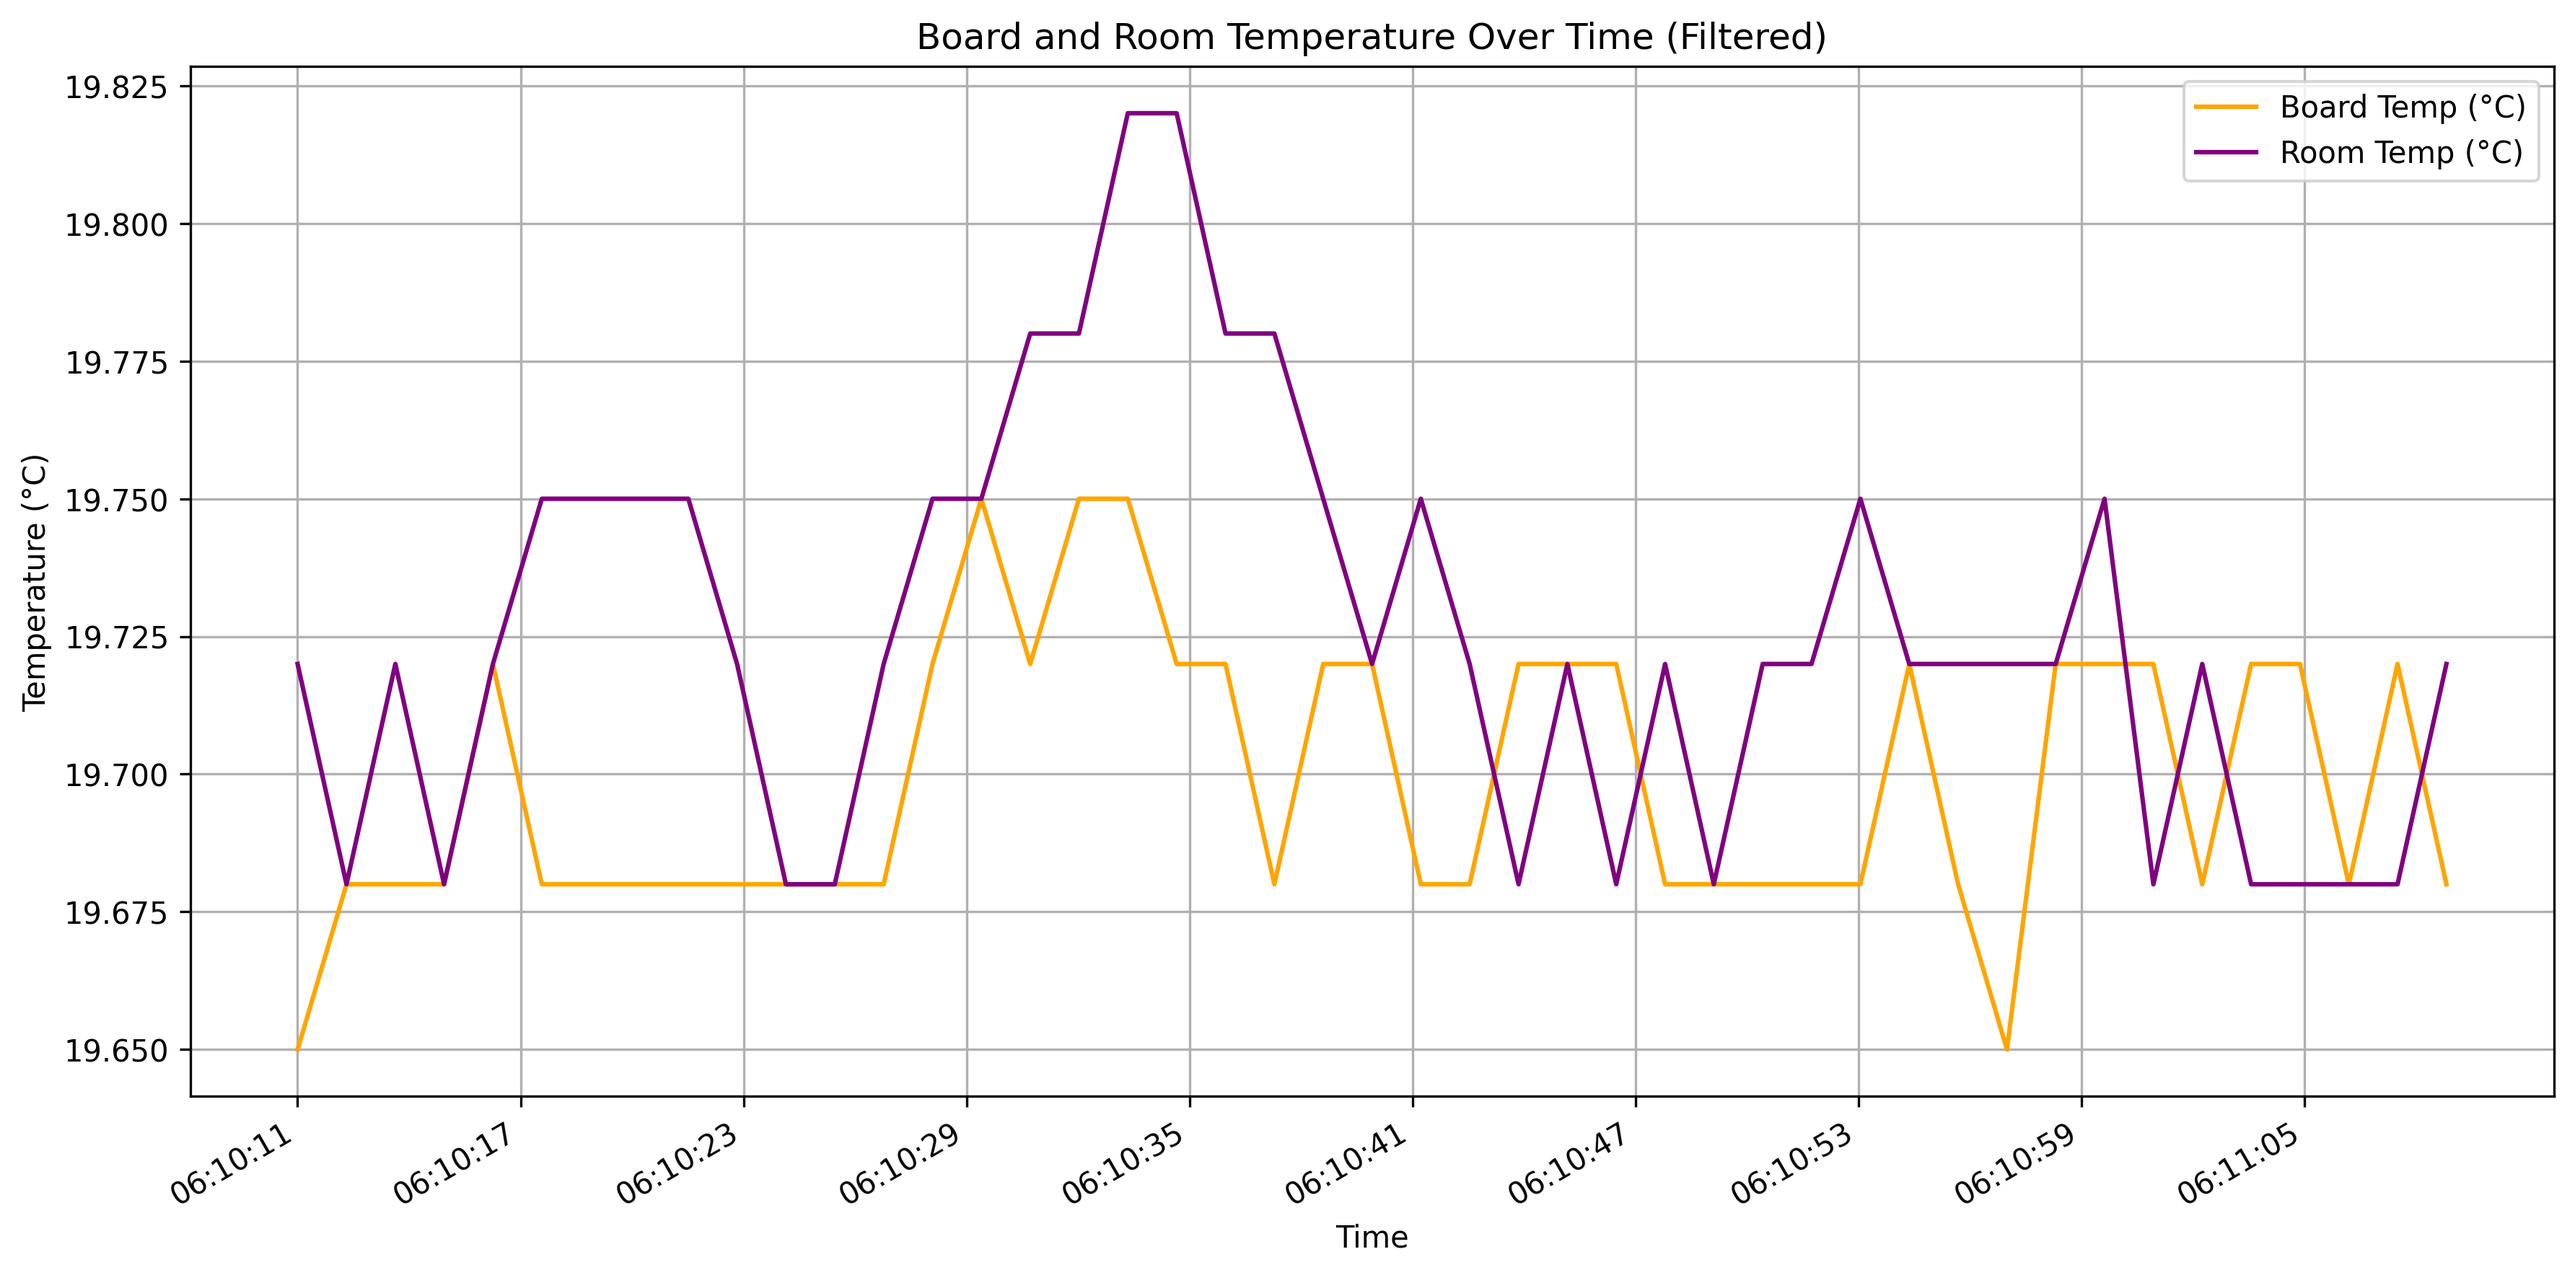
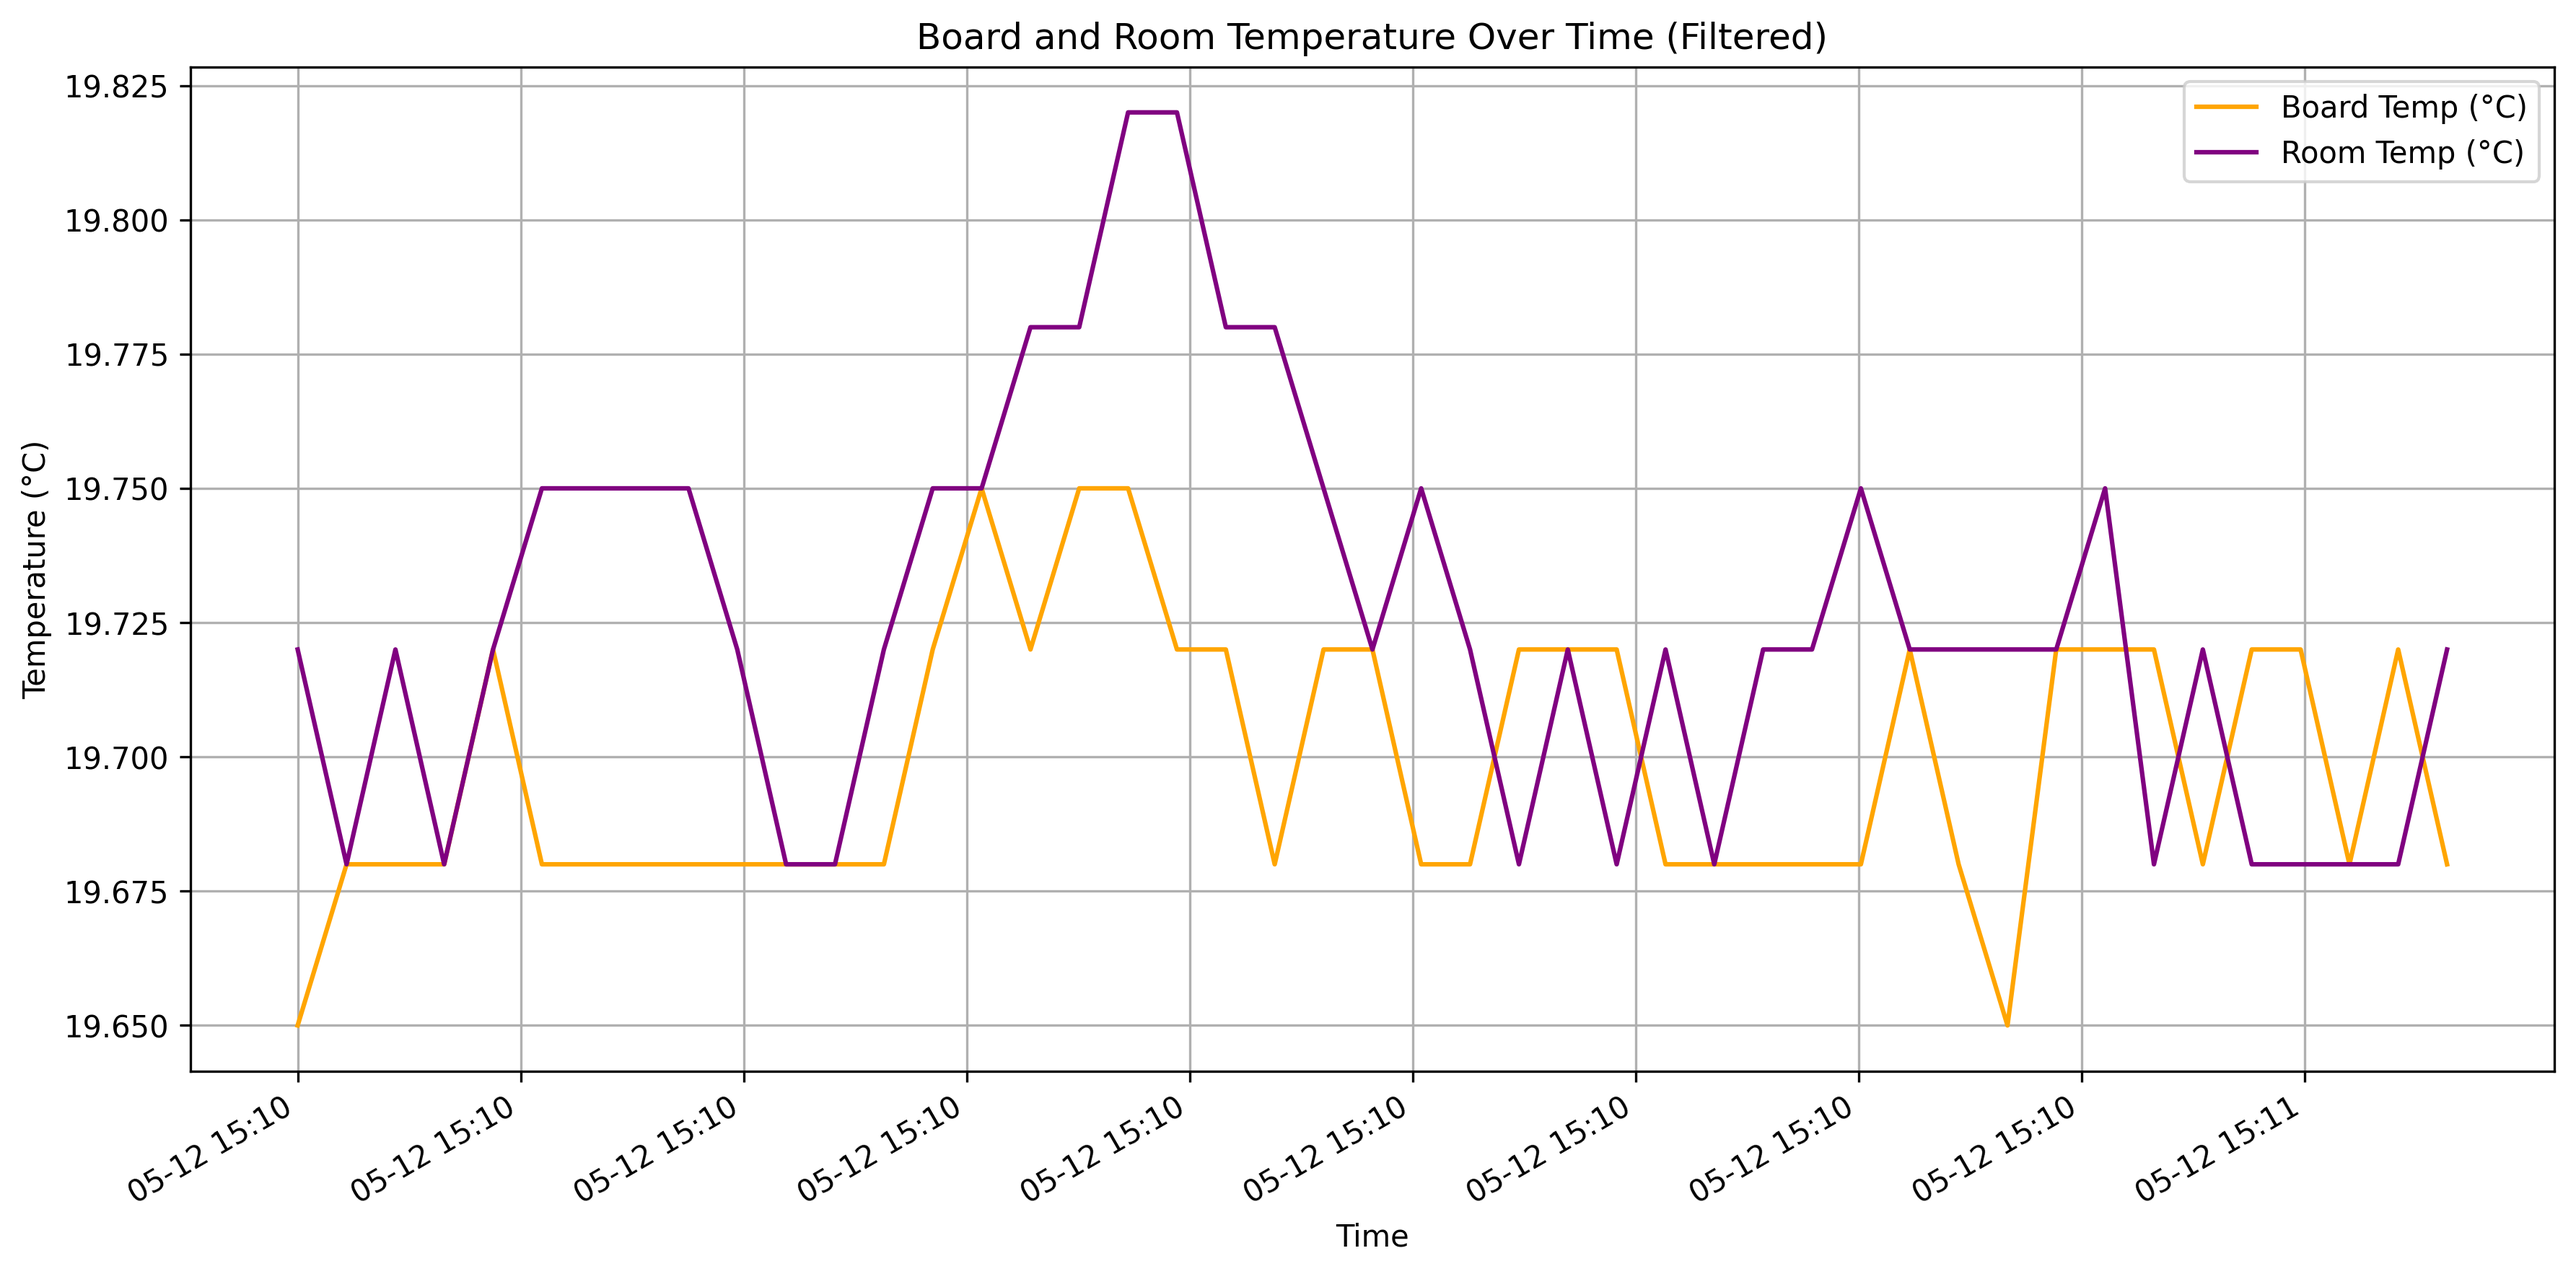
resulta_analysis.py

diff --git a/result_anlaysis.py b/result_anlaysis.py
@@ -5,21 +5,32 @@ import pandas as pd
 import os
 
 # ===== CONFIG SECTION =====
+# 05.12
 # 15-10-10 to 15-11-10: 10s short-term stability test
 # 15-10-53 to 15-24-52: 10min short term stability test
 # 15-30-30 to 16-40-00: 1hr long term stability test
 
-#filename = "20260512_Efficiency_longterm_1hr.txt"
-filename = "20260512_Efficiency_shortterm_10s_m_.txt"
-start_time = datetime.time(15, 10, 10)
-end_time = datetime.time(15, 11, 10)
+#05.12, 05.13
+# 05.12 16-31-00 to 05.13 13-20-00: 1 day long term stability test
+
+#filename = "20260512_Efficiency_shortterm_10s_m_.txt"
+filename = "20260512_Efficiency_longterm_1hr.txt"
+#filename =  "20260512_Efficiency_1day.txt"
+
+# Use full date + time range for filtering. 
+# Set the date and time here to select the exact window you want.
+seoul_tz = datetime.timezone(datetime.timedelta(hours=9))
+start_datetime = datetime.datetime(2026, 5, 12, 15, 30, 30, tzinfo=seoul_tz)
+end_datetime = datetime.datetime(2026, 5, 12, 16, 40, 0, tzinfo=seoul_tz)
+
+
 dpi = 300
 figsize1 = (12, 8)
 figsize2 = (12, 6)
-x_axis_interval_minutes = 0.1  # X-axis time interval in minutes
-first_window_minutes = .1  # average on the first N minutes of filtered data
-middle_window_minutes = .1  # average on the middle N minutes of filtered data
-last_window_minutes = .1   # average on the last N minutes of filtered data
+x_axis_interval_minutes = 10  # X-axis time interval in minutes
+first_window_minutes = 1  # average on the first N minutes of filtered data
+middle_window_minutes = 5  # average on the middle N minutes of filtered data
+last_window_minutes = 5   # average on the last N minutes of filtered data
 # =======================
 
 df = pd.read_csv(filename, sep=';')
@@ -32,15 +43,15 @@ for col in ['p_in', 'p_out', 'eff', 'temperature', 'temperature_room']:
 
 # KST filtering
 filtered_df = df[
-    (df['timestamp'].dt.time >= start_time) &
-    (df['timestamp'].dt.time <= end_time)
+    (df['timestamp'] >= start_datetime) &
+    (df['timestamp'] <= end_datetime)
 ].copy()
 
 print(f'Full rows: {len(df)}, filtered rows: {len(filtered_df)}')
 print(f'Available local time range: {df["timestamp"].min()} - {df["timestamp"].max()}')
 
 if filtered_df.empty:
-    raise ValueError("filtered_df is empty. Check start_time and end_time.")
+    raise ValueError("filtered_df is empty. Check start_datetime and end_datetime.")
 
 # Average efficiency for the first, middle, and last windows
 first_window_end = filtered_df['timestamp'].min() + datetime.timedelta(minutes=first_window_minutes)
@@ -92,12 +103,12 @@ while current <= filtered_df['timestamp'].max():
     times.append(current)
     current += interval_delta
 ax1.set_xticks(times)
-ax1.xaxis.set_major_formatter(mdates.DateFormatter('%H:%M:%S'))
+ax1.xaxis.set_major_formatter(mdates.DateFormatter('%m-%d %H:%M', tz=seoul_tz))
 
 fig.autofmt_xdate()
 fig.tight_layout()
 
-output_image = os.path.splitext(filename)[0] + f'_filtered_{start_time.strftime("%H-%M-%S")}_{end_time.strftime("%H-%M-%S")}.png'
+output_image = os.path.splitext(filename)[0] + f'_filtered_{start_datetime.strftime("%H-%M-%S")}_{end_datetime.strftime("%H-%M-%S")}.png'
 fig.savefig(output_image, dpi=dpi, bbox_inches='tight')
 print(f'Saved filtered figure to: {output_image}')
 
@@ -113,12 +124,12 @@ ax3.grid(True)
 
 # Set x-axis time interval
 ax3.set_xticks(times)
-ax3.xaxis.set_major_formatter(mdates.DateFormatter('%H:%M:%S'))
+ax3.xaxis.set_major_formatter(mdates.DateFormatter('%m-%d %H:%M', tz=seoul_tz))
 
 fig2.autofmt_xdate()
 fig2.tight_layout()
 
-output_image2 = os.path.splitext(filename)[0] + f'_temperature_overlay_{start_time.strftime("%H-%M-%S")}_{end_time.strftime("%H-%M-%S")}.png'
+output_image2 = os.path.splitext(filename)[0] + f'_temperature_overlay_{start_datetime.strftime("%H-%M-%S")}_{end_datetime.strftime("%H-%M-%S")}.png'
 fig2.savefig(output_image2, dpi=dpi, bbox_inches='tight')
 print(f'Saved temperature figure to: {output_image2}')
 
